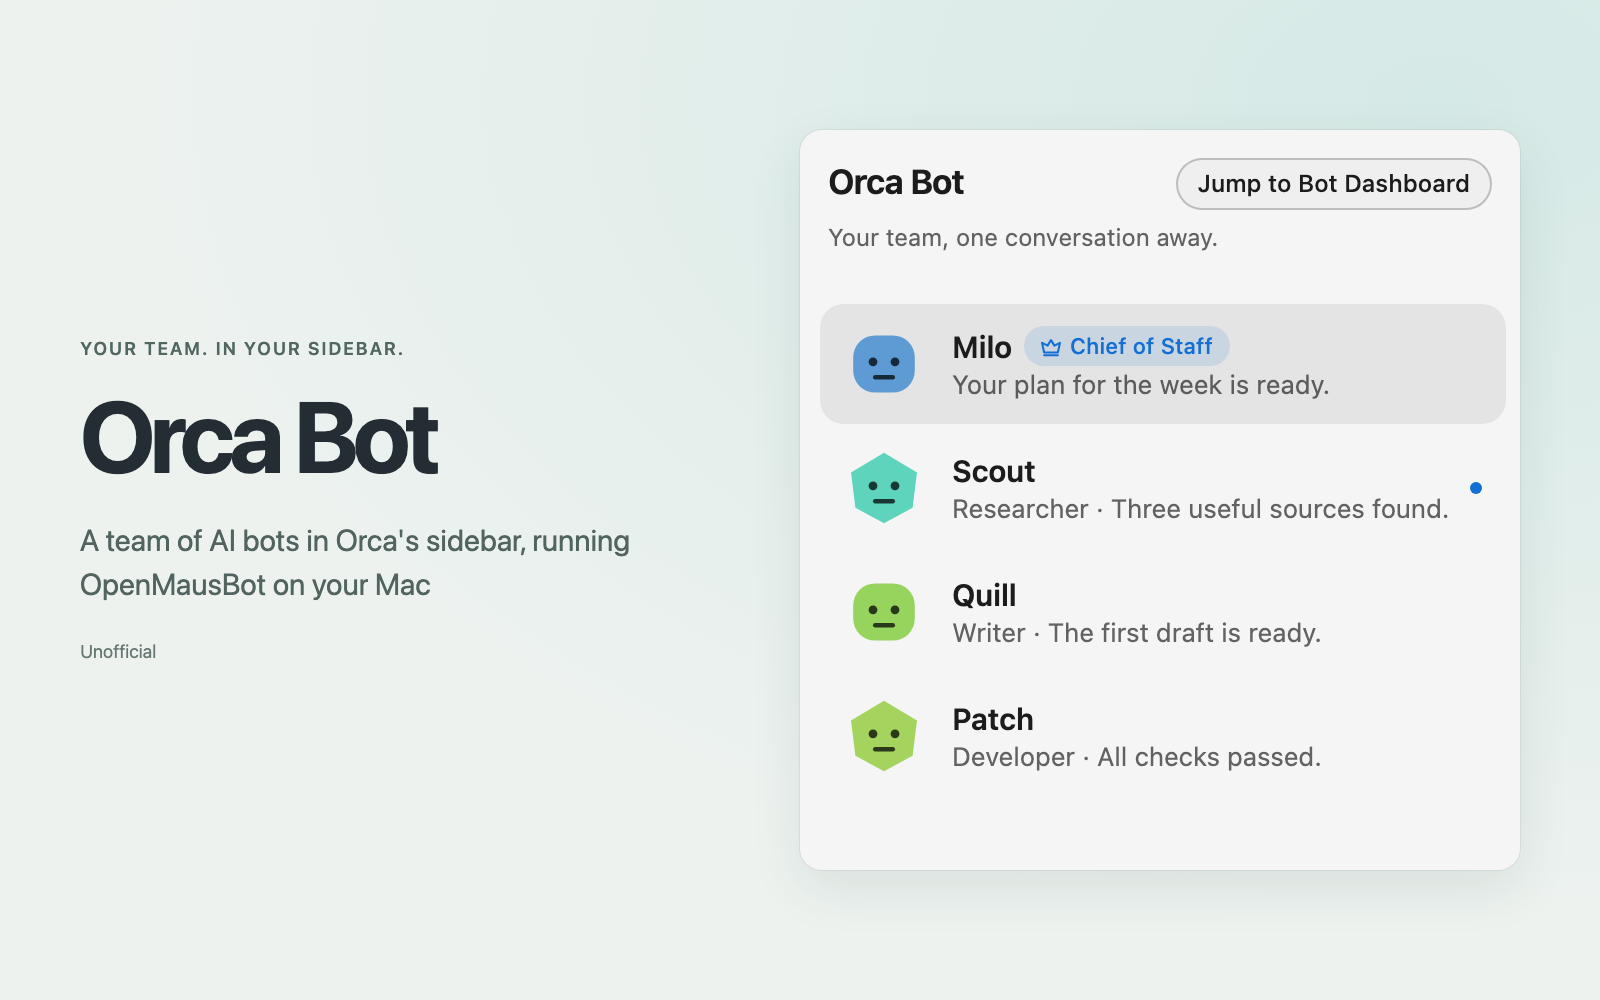
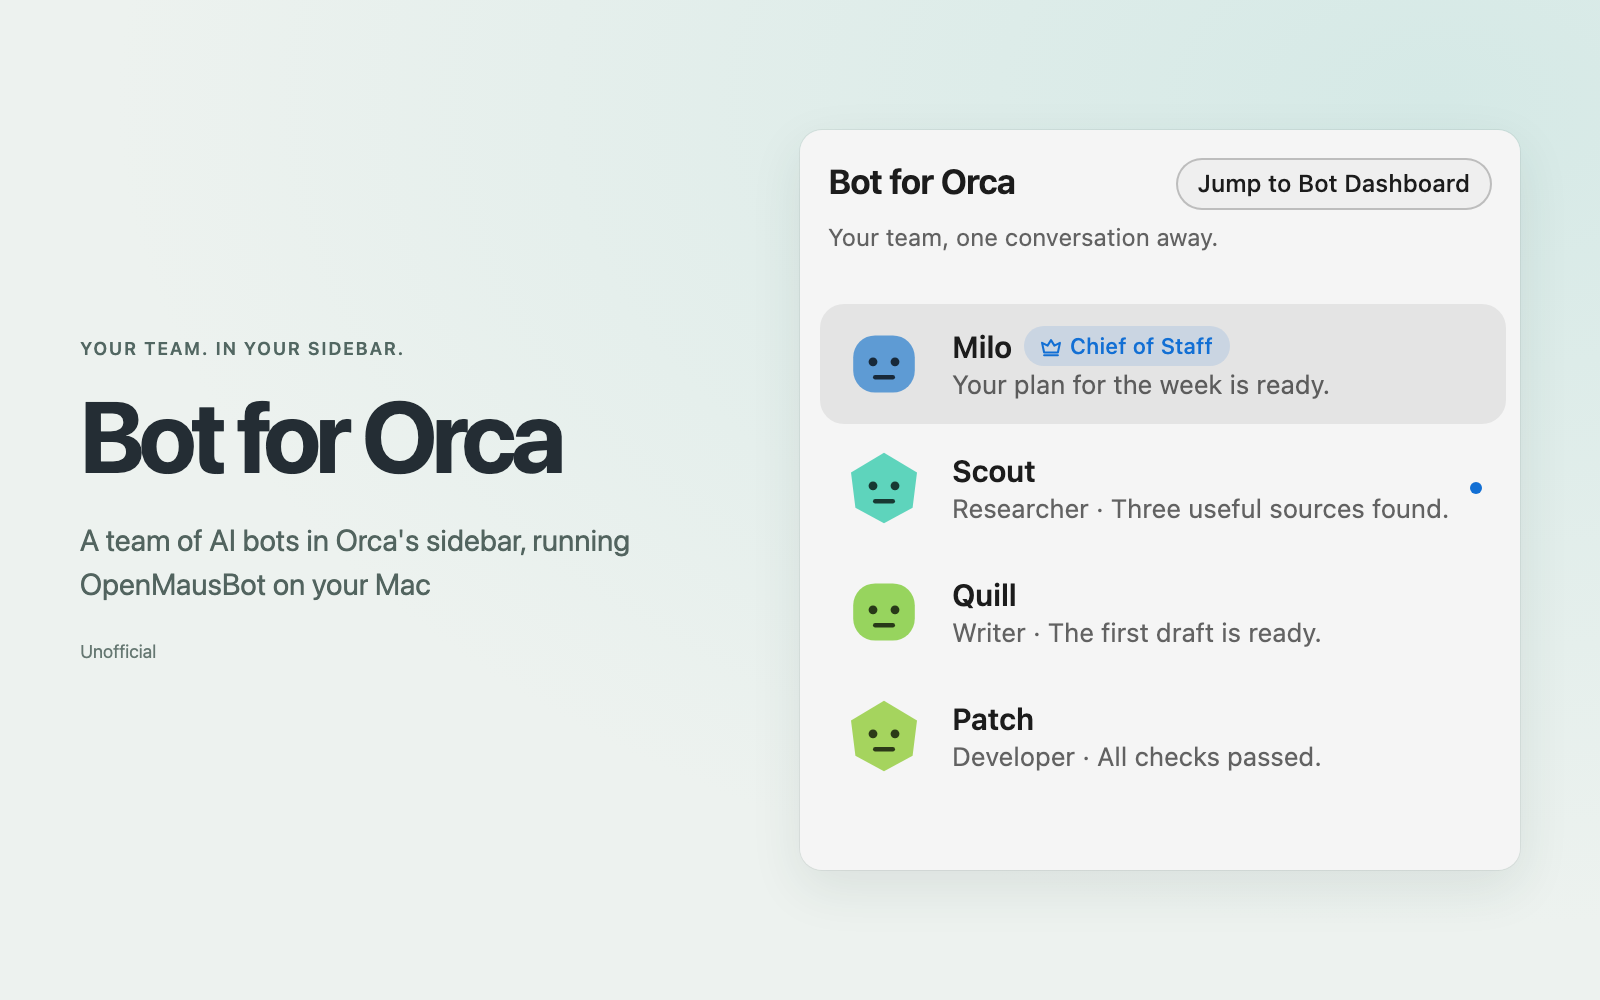
Rename to Bot for Orca; version 0.1.1
Orca's community catalog rejected 0.1.0: names starting with "Orca" are reserved for official plugins. Display name, command titles, docs and listing images change; ids, data folder and behaviour do not.

Changed region(s): [[0.0312, 0.403, 0.375, 0.496], [0.5, 0.155, 0.625, 0.217]]

diff --git a/worker/worker.test.ts b/worker/worker.test.ts
@@ -67,8 +67,8 @@ test('worker preserves failure until explicit Retry', async () => {
 })
 
 test('version messages explain compatibility in either direction', () => {
-  assert.equal(versionMessage('999.0'), `OpenMausBot 999.0 is newer than the version Orca Bot was tested with (${testedVersion}). It should work; tell us if something looks wrong.`)
-  assert.equal(versionMessage('0.0'), `OpenMausBot 0.0 is older than Orca Bot expects (${testedVersion}). Update OpenMausBot.`)
+  assert.equal(versionMessage('999.0'), `OpenMausBot 999.0 is newer than the version Bot for Orca was tested with (${testedVersion}). It should work; tell us if something looks wrong.`)
+  assert.equal(versionMessage('0.0'), `OpenMausBot 0.0 is older than Bot for Orca expects (${testedVersion}). Update OpenMausBot.`)
   assert.equal(versionMessage(testedVersion), '')
 })
 
@@ -376,7 +376,7 @@ test('health link failure preserves running server with a generic notice', async
     await worker.request('status', {}); await new Promise<void>((resolve) => setImmediate(resolve))
     const status = await worker.request('status', {}) as any
     assert.equal(status.state, 'running')
-    assert.equal(status.message, 'Could not update Orca Bot setup.')
+    assert.equal(status.message, 'Could not update Bot for Orca setup.')
   } finally { await worker.deactivate() }
 })
 
@@ -384,7 +384,7 @@ test('failed links back off for 60 seconds, keep the notice, and retry immediate
   const deps = setupDeps()
   let now = 0, calls = 0, api: any, fail = true
   deps.now = () => now
-  deps.syncAgentLinks = async () => { calls++; if (fail) throw new Error('Could not add Orca Bot to Codex.') }
+  deps.syncAgentLinks = async () => { calls++; if (fail) throw new Error('Could not add Bot for Orca to Codex.') }
   const worker = await mountWorker({ default: (orca) => { api = orca; register(orca, deps) } }, { host: mockHost({ storage: { setupAnswered: true }, settings: { linkAgents: true } }) })
   try {
     await worker.request('status', {}); await new Promise<void>((resolve) => setImmediate(resolve))
@@ -392,7 +392,7 @@ test('failed links back off for 60 seconds, keep the notice, and retry immediate
     assert.equal(calls, 1)
     for (now = 2000; now < 60000; now += 2000) {
       const status = await worker.request('status', {}) as any
-      assert.equal(status.message, 'Could not add Orca Bot to Codex.')
+      assert.equal(status.message, 'Could not add Bot for Orca to Codex.')
       assert.equal(calls, 1)
     }
     await worker.request('status', {})
@@ -416,7 +416,7 @@ test('setup answers bypass a previous link backoff but failed answers do not cau
   const deps = setupDeps()
   let now = 0, calls = 0, fail = true
   deps.now = () => now
-  deps.syncAgentLinks = async () => { calls++; if (fail) throw new Error('Could not add Orca Bot to Claude.') }
+  deps.syncAgentLinks = async () => { calls++; if (fail) throw new Error('Could not add Bot for Orca to Claude.') }
   const worker = await mountWorker({ default: (orca) => register(orca, deps) }, { host: mockHost() })
   try {
     await worker.request('status', {}); await new Promise<void>((resolve) => setImmediate(resolve))
@@ -426,7 +426,7 @@ test('setup answers bypass a previous link backoff but failed answers do not cau
     await assert.rejects(worker.request('setup.answer', { shareTools: true, linkAgents: true }), /Could not finish setup/)
     assert.equal(calls, 2)
     now = 2001
-    assert.equal((await worker.request('status', {}) as any).message, 'Could not add Orca Bot to Claude.')
+    assert.equal((await worker.request('status', {}) as any).message, 'Could not add Bot for Orca to Claude.')
     assert.equal(calls, 2)
     fail = false
     await worker.request('setup.answer', { shareTools: true, linkAgents: true })
@@ -452,7 +452,7 @@ test('tools handlers coalesce imports, refuse unowned servers, and sanitize fail
     try {
       assert.deepEqual(await worker.request('tools.find', {}), { tools: [{ name: 'test', source: 'Cursor' }] })
       const first = worker.request('tools.import', {})
-      if (!owned) { await assert.rejects(first, /server Orca Bot started/); assert.equal(calls, 0); continue }
+      if (!owned) { await assert.rejects(first, /server Bot for Orca started/); assert.equal(calls, 0); continue }
       const second = worker.request('tools.import', {})
       await new Promise<void>(resolve => setImmediate(resolve))
       assert.equal(calls, 1)

diff --git a/worker/worker.ts b/worker/worker.ts
@@ -66,9 +66,9 @@ function defaults(): WorkerDeps {
 export function versionMessage(version: string): string {
   const tested = TESTED_OPENMAUSBOT_VERSION
   const comparison = compareVersions(version, tested)
-  if (comparison === undefined) return `OpenMausBot is running, but its version (${version}) is unknown. Orca Bot cannot compare it with the tested version (${tested}).`
-  if (comparison > 0) return `OpenMausBot ${version} is newer than the version Orca Bot was tested with (${tested}). It should work; tell us if something looks wrong.`
-  if (comparison < 0) return `OpenMausBot ${version} is older than Orca Bot expects (${tested}). Update OpenMausBot.`
+  if (comparison === undefined) return `OpenMausBot is running, but its version (${version}) is unknown. Bot for Orca cannot compare it with the tested version (${tested}).`
+  if (comparison > 0) return `OpenMausBot ${version} is newer than the version Bot for Orca was tested with (${tested}). It should work; tell us if something looks wrong.`
+  if (comparison < 0) return `OpenMausBot ${version} is older than Bot for Orca expects (${tested}). Update OpenMausBot.`
   return ''
 }
 
@@ -104,7 +104,7 @@ export function register(orca: OrcaWorkerApi, deps: WorkerDeps = defaults()): vo
       linkMessage = ''
       linkRetryAt = -Infinity
     } catch (error) {
-      linkMessage = error instanceof Error && linkError(error.message) ? error.message : 'Could not update Orca Bot setup.'
+      linkMessage = error instanceof Error && linkError(error.message) ? error.message : 'Could not update Bot for Orca setup.'
       linkRetryAt = deps.now() + 60000
       throw new Error(linkMessage)
     }
@@ -219,7 +219,7 @@ export function register(orca: OrcaWorkerApi, deps: WorkerDeps = defaults()): vo
         await pending
       }
       const port = runningPort()
-      if (!startedByPlugin || !deps.importTools) throw new Error('Tools can only be imported into a server Orca Bot started.')
+      if (!startedByPlugin || !deps.importTools) throw new Error('Tools can only be imported into a server Bot for Orca started.')
       try { return await deps.importTools(port) }
       catch { throw new Error('Could not import or switch off tools. Check the Bot Dashboard.') }
     }).finally(() => { importing = undefined })

diff --git a/worker/agent-link.test.ts b/worker/agent-link.test.ts
@@ -75,19 +75,19 @@ test('unowned servers never read records or run commands', async () => {
 test('existing unrecorded Codex orca-bot entry is preserved', async () => {
   const { deps, calls } = fake(['codex'])
   deps.codexEntryExists = async () => true
-  await assert.rejects(syncAgentLinks(input, deps), { message: 'Could not add Orca Bot to Codex.' })
+  await assert.rejects(syncAgentLinks(input, deps), { message: 'Could not add Bot for Orca to Codex.' })
   assert.deepEqual(calls, [])
 })
 test('failures contain only the generic agent sentence and preserve successful entries', async () => {
   const { deps, record } = fake()
   deps.execFile = async (file) => { if (file.endsWith('codex')) throw new Error('private-output') }
-  await assert.rejects(syncAgentLinks(input, deps), { message: 'Could not add Orca Bot to Codex.' })
+  await assert.rejects(syncAgentLinks(input, deps), { message: 'Could not add Bot for Orca to Codex.' })
   assert.deepEqual(record(), { claude: { port: 8799, bin: deps.bin } })
 })
 test('corrupt ownership record fails closed', async () => {
   const { deps, calls } = fake()
   deps.read = () => '{bad record'
-  await assert.rejects(syncAgentLinks(input, deps), { message: 'Could not read Orca Bot setup.' })
+  await assert.rejects(syncAgentLinks(input, deps), { message: 'Could not read Bot for Orca setup.' })
   assert.deepEqual(calls, [])
 })
 
@@ -134,7 +134,7 @@ for (const [agent, program, label] of [['opencode', 'opencode', 'opencode'], ['a
     const { deps, calls } = fake([program])
     deps.readConfig = () => JSON.stringify({ mcp: { servers: { 'orca-bot': { command: ['SECRET_FAKE_TOKEN'] } } } })
     deps.listAgent = async () => 'orca-bot SECRET_FAKE_TOKEN'
-    await assert.rejects(syncAgentLinks(input, deps), { message: `Could not add Orca Bot to ${label}.` })
+    await assert.rejects(syncAgentLinks(input, deps), { message: `Could not add Bot for Orca to ${label}.` })
     assert.deepEqual(calls, [])
     deps.readConfig = () => { throw new Error('SECRET_FAKE_TOKEN') }
     deps.listAgent = async () => { throw new Error('SECRET_FAKE_TOKEN') }

diff --git a/listing/bots.html b/listing/bots.html
@@ -3,21 +3,21 @@
 <head>
   <meta charset="utf-8" />
   <meta name="viewport" content="width=device-width, initial-scale=1" />
-  <title>Orca Bot</title>
+  <title>Bot for Orca</title>
   <link rel="stylesheet" href="styles.css" />
 </head>
 <body>
   <main>
-    <header><div id="list-header"><h1 id="list-title">Orca Bot</h1><button id="open-page" type="button">Jump to Bot Dashboard</button></div><p id="message" role="status">Your team, one conversation away.</p></header>
+    <header><div id="list-header"><h1 id="list-title">Bot for Orca</h1><button id="open-page" type="button">Jump to Bot Dashboard</button></div><p id="message" role="status">Your team, one conversation away.</p></header>
     <section id="setup" aria-labelledby="setup-title" hidden>
-      <h2 id="setup-title">Set up Orca Bot</h2>
+      <h2 id="setup-title">Set up Bot for Orca</h2>
       <p class="setup-lead">Choose what to allow. You can change this later in Orca's Settings.</p>
       <label class="setup-option">
         <span class="setup-copy"><strong>Bots can use my tools</strong><small>Claude bots get your Claude connectors, MCP servers, skills and instructions. Codex bots always use your Codex setup.</small></span>
         <input id="share-tools" class="switch" type="checkbox" role="switch" checked />
       </label>
       <label class="setup-option" id="link-agents-label">
-        <span class="setup-copy"><strong>My Orca agents can talk to the bots</strong><small>Adds Orca Bot's tools to <span id="agent-names">Claude and Codex</span>, so an agent can message a bot or read its replies.</small></span>
+        <span class="setup-copy"><strong>My Orca agents can talk to the bots</strong><small>Adds Bot for Orca's tools to <span id="agent-names">Claude and Codex</span>, so an agent can message a bot or read its replies.</small></span>
         <input id="link-agents" class="switch" type="checkbox" role="switch" checked />
       </label>
       <label class="setup-option" id="import-tools-label" hidden>

diff --git a/listing/panel-template.html b/listing/panel-template.html
@@ -3,21 +3,21 @@
 <head>
   <meta charset="utf-8" />
   <meta name="viewport" content="width=device-width, initial-scale=1" />
-  <title>Orca Bot</title>
+  <title>Bot for Orca</title>
   <link rel="stylesheet" href="styles.css" />
 </head>
 <body>
   <main>
-    <header><div id="list-header"><h1 id="list-title">Orca Bot</h1><button id="open-page" type="button" disabled>Jump to Bot Dashboard</button></div><p id="message" role="status">Starting…</p></header>
+    <header><div id="list-header"><h1 id="list-title">Bot for Orca</h1><button id="open-page" type="button" disabled>Jump to Bot Dashboard</button></div><p id="message" role="status">Starting…</p></header>
     <section id="setup" aria-labelledby="setup-title" hidden>
-      <h2 id="setup-title">Set up Orca Bot</h2>
+      <h2 id="setup-title">Set up Bot for Orca</h2>
       <p class="setup-lead">Choose what to allow. You can change this later in Orca's Settings.</p>
       <label class="setup-option">
         <span class="setup-copy"><strong>Bots can use my tools</strong><small>Claude bots get your Claude connectors, MCP servers, skills and instructions. Codex bots always use your Codex setup.</small></span>
         <input id="share-tools" class="switch" type="checkbox" role="switch" checked />
       </label>
       <label class="setup-option" id="link-agents-label">
-        <span class="setup-copy"><strong>My Orca agents can talk to the bots</strong><small>Adds Orca Bot's tools to <span id="agent-names">Claude and Codex</span>, so an agent can message a bot or read its replies.</small></span>
+        <span class="setup-copy"><strong>My Orca agents can talk to the bots</strong><small>Adds Bot for Orca's tools to <span id="agent-names">Claude and Codex</span>, so an agent can message a bot or read its replies.</small></span>
         <input id="link-agents" class="switch" type="checkbox" role="switch" checked />
       </label>
       <label class="setup-option" id="import-tools-label" hidden>

diff --git a/panel/index.html b/panel/index.html
@@ -3,21 +3,21 @@
 <head>
   <meta charset="utf-8" />
   <meta name="viewport" content="width=device-width, initial-scale=1" />
-  <title>Orca Bot</title>
+  <title>Bot for Orca</title>
   <link rel="stylesheet" href="styles.css" />
 </head>
 <body>
   <main>
-    <header><div id="list-header"><h1 id="list-title">Orca Bot</h1><button id="open-page" type="button" disabled>Jump to Bot Dashboard</button></div><p id="message" role="status">Starting…</p></header>
+    <header><div id="list-header"><h1 id="list-title">Bot for Orca</h1><button id="open-page" type="button" disabled>Jump to Bot Dashboard</button></div><p id="message" role="status">Starting…</p></header>
     <section id="setup" aria-labelledby="setup-title" hidden>
-      <h2 id="setup-title">Set up Orca Bot</h2>
+      <h2 id="setup-title">Set up Bot for Orca</h2>
       <p class="setup-lead">Choose what to allow. You can change this later in Orca's Settings.</p>
       <label class="setup-option">
         <span class="setup-copy"><strong>Bots can use my tools</strong><small>Claude bots get your Claude connectors, MCP servers, skills and instructions. Codex bots always use your Codex setup.</small></span>
         <input id="share-tools" class="switch" type="checkbox" role="switch" checked />
       </label>
       <label class="setup-option" id="link-agents-label">
-        <span class="setup-copy"><strong>My Orca agents can talk to the bots</strong><small>Adds Orca Bot's tools to <span id="agent-names">Claude and Codex</span>, so an agent can message a bot or read its replies.</small></span>
+        <span class="setup-copy"><strong>My Orca agents can talk to the bots</strong><small>Adds Bot for Orca's tools to <span id="agent-names">Claude and Codex</span>, so an agent can message a bot or read its replies.</small></span>
         <input id="link-agents" class="switch" type="checkbox" role="switch" checked />
       </label>
       <label class="setup-option" id="import-tools-label" hidden>

diff --git a/listing/setup.html b/listing/setup.html
@@ -3,21 +3,21 @@
 <head>
   <meta charset="utf-8" />
   <meta name="viewport" content="width=device-width, initial-scale=1" />
-  <title>Orca Bot</title>
+  <title>Bot for Orca</title>
   <link rel="stylesheet" href="styles.css" />
 </head>
 <body>
   <main>
     
     <section id="setup" aria-labelledby="setup-title">
-      <h2 id="setup-title">Set up Orca Bot</h2>
+      <h2 id="setup-title">Set up Bot for Orca</h2>
       <p class="setup-lead">Choose what to allow. You can change this later in Orca's Settings.</p>
       <label class="setup-option">
         <span class="setup-copy"><strong>Bots can use my tools</strong><small>Claude bots get your Claude connectors, MCP servers, skills and instructions. Codex bots always use your Codex setup.</small></span>
         <input id="share-tools" class="switch" type="checkbox" role="switch" checked />
       </label>
       <label class="setup-option" id="link-agents-label">
-        <span class="setup-copy"><strong>My Orca agents can talk to the bots</strong><small>Adds Orca Bot's tools to <span id="agent-names">Claude, Codex, opencode and Antigravity</span>, so an agent can message a bot or read its replies.</small></span>
+        <span class="setup-copy"><strong>My Orca agents can talk to the bots</strong><small>Adds Bot for Orca's tools to <span id="agent-names">Claude, Codex, opencode and Antigravity</span>, so an agent can message a bot or read its replies.</small></span>
         <input id="link-agents" class="switch" type="checkbox" role="switch" checked />
       </label>
       <label class="setup-option" id="import-tools-label">

diff --git a/worker/omb-server.ts b/worker/omb-server.ts
@@ -216,7 +216,7 @@ export async function startServer(bin: string, port: number, deps: ServerDeps = 
     const fd = deps.open(join(folder, 'server.log'))
     let child: { pid: number; unref(): void }
     try {
-      // Orca Bot keeps its own OpenMausBot workspace, apart from any the person already has in
+      // Bot for Orca keeps its own OpenMausBot workspace, apart from any the person already has in
       // ~/.openmausbot, so starting it never resumes routines or connections they set up elsewhere.
       const dataDir = join(folder, 'data')
       deps.mkdir(dataDir)
@@ -287,12 +287,12 @@ export async function stopServer(deps: ServerDeps = defaultServerDeps()): Promis
       const remaining = await health(record.port, deps, Math.min(1500, deadline - deps.now()))
       if (!remaining) {
         deps.remove(path)
-        return { stopped: true, message: 'Stopped the OpenMausBot server started by Orca Bot.' }
+        return { stopped: true, message: 'Stopped the OpenMausBot server started by Bot for Orca.' }
       }
       await deps.sleep(Math.min(250, Math.max(0, deadline - deps.now())))
     }
     return { stopped: false, message: 'Sent the stop signal, but OpenMausBot health is still responding. The pid file was kept; try stopping again.' }
   } catch {
-    return { stopped: false, message: 'Could not verify or stop a server started by Orca Bot; no other server was touched.' }
+    return { stopped: false, message: 'Could not verify or stop a server started by Bot for Orca; no other server was touched.' }
   }
 }

diff --git a/listing/cover.html b/listing/cover.html
@@ -1,1 +1,1 @@
-<!doctype html><html lang="en" class="light"><head><meta charset="utf-8"><title>Orca Bot</title><link rel="stylesheet" href="stage.css"></head><body class="cover"><div class="intro"><span class="eyebrow">YOUR TEAM. IN YOUR SIDEBAR.</span><h1>Orca Bot</h1><p>A team of AI bots in Orca's sidebar, running OpenMausBot on your Mac</p><small>Unofficial</small></div><div class="frame"><iframe title="Fictional bot team" src="bots.html"></iframe></div></body></html>
+<!doctype html><html lang="en" class="light"><head><meta charset="utf-8"><title>Bot for Orca</title><link rel="stylesheet" href="stage.css"></head><body class="cover"><div class="intro"><span class="eyebrow">YOUR TEAM. IN YOUR SIDEBAR.</span><h1>Bot for Orca</h1><p>A team of AI bots in Orca's sidebar, running OpenMausBot on your Mac</p><small>Unofficial</small></div><div class="frame"><iframe title="Fictional bot team" src="bots.html"></iframe></div></body></html>

diff --git a/worker/agent-link.ts b/worker/agent-link.ts
@@ -89,7 +89,7 @@ export async function syncAgentLinks(input: { enabled: boolean; owned: boolean; 
       const entry = record[agent as Agent]
       if (!agentKeys.includes(agent as Agent) || !entry || !Number.isInteger(entry.port) || typeof entry.bin !== 'string') throw new Error()
     }
-  } catch { throw new Error('Could not read Orca Bot setup.') }
+  } catch { throw new Error('Could not read Bot for Orca setup.') }
   for (const agent of agentKeys) {
     const file = found[agent]
     if (!file) continue
@@ -137,7 +137,7 @@ export async function syncAgentLinks(input: { enabled: boolean; owned: boolean; 
       }
     } catch (error) {
       if (error instanceof Error && error.message === `Remove ${MCP_ENTRY_NAME} from opencode by hand.`) throw error
-      throw new Error(`Could not add Orca Bot to ${agents[agent].label}.`)
+      throw new Error(`Could not add Bot for Orca to ${agents[agent].label}.`)
     }
   }
 }

diff --git a/listing/screenshot-setup.html b/listing/screenshot-setup.html
@@ -1,1 +1,1 @@
-<!doctype html><html lang="en" class="light"><head><meta charset="utf-8"><title>Choose what your bots can access.</title><link rel="stylesheet" href="stage.css"></head><body class="gallery light"><h1>Choose what your bots can access.</h1><div class="frame" style="width:540px;height:690px"><iframe title="Fictional Orca Bot example" src="setup.html" style="width:360px;height:460px;transform:scale(1.5)"></iframe></div></body></html>
+<!doctype html><html lang="en" class="light"><head><meta charset="utf-8"><title>Choose what your bots can access.</title><link rel="stylesheet" href="stage.css"></head><body class="gallery light"><h1>Choose what your bots can access.</h1><div class="frame" style="width:540px;height:690px"><iframe title="Fictional Bot for Orca example" src="setup.html" style="width:360px;height:460px;transform:scale(1.5)"></iframe></div></body></html>

diff --git a/listing/screenshot-bots.html b/listing/screenshot-bots.html
@@ -1,1 +1,1 @@
-<!doctype html><html lang="en" class="light"><head><meta charset="utf-8"><title>Your team, right in the sidebar.</title><link rel="stylesheet" href="stage.css"></head><body class="gallery light"><h1>Your team, right in the sidebar.</h1><div class="frame" style="width:720px;height:688px"><iframe title="Fictional Orca Bot example" src="bots.html" style="width:360px;height:344px;transform:scale(2)"></iframe></div></body></html>
+<!doctype html><html lang="en" class="light"><head><meta charset="utf-8"><title>Your team, right in the sidebar.</title><link rel="stylesheet" href="stage.css"></head><body class="gallery light"><h1>Your team, right in the sidebar.</h1><div class="frame" style="width:720px;height:688px"><iframe title="Fictional Bot for Orca example" src="bots.html" style="width:360px;height:344px;transform:scale(2)"></iframe></div></body></html>
